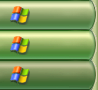
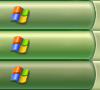
refactor themes taskbar

diff --git a/src/app/desktop/taskbar/taskbar.component.scss b/src/app/desktop/taskbar/taskbar.component.scss
@@ -31,6 +31,7 @@
   font-style: italic;
   text-shadow: 1px 1px 3px #000e;
   cursor: pointer;
+  user-select: none;
   &:hover {
     background-position: 0 60px;
   }  
@@ -42,7 +43,8 @@
 
 .tray {
   padding-inline: 16px;
-  border-left: 1px #12305290 solid;
+  border-left-width: 1px;
+  border-left-style: solid;
 }
 
 .clock {
@@ -51,4 +53,53 @@
   display: flex;
   align-items: center;
   font-size: 11px;
+}
+
+
+::ng-deep .theme-silver {
+  background-image: url("/assets/taskbar/silver/bg.png");
+
+  .start-button {
+    background-image: url("/assets/taskbar/silver/start.png");
+  }
+
+  .clock {
+    color: #000
+  }
+  .tray {
+    background-image: url("/assets/taskbar/silver/tray.png");
+    border-left-color: #1c1c1f90;
+  }
+}
+
+::ng-deep .theme-blue {
+  background-image: url("/assets/taskbar/blue/bg.png");
+
+  .start-button {
+    background-image: url("/assets/taskbar/blue/start.png");
+  }
+
+  .clock {
+    color: #fff;
+  }
+  .tray {
+    background-image: url("/assets/taskbar/blue/tray.png");
+    border-left-color: #12305290;
+  }
+}
+
+::ng-deep .theme-olive {
+  background-image: url("/assets/taskbar/olive/bg.png");
+
+  .start-button {
+    background-image: url("/assets/taskbar/olive/start.png");
+  }
+
+  .clock {
+    color: #41400a;
+  }
+  .tray {
+    background-image: url("/assets/taskbar/olive/tray.png");
+    border-left-color: #968b4b;
+  }
 }

diff --git a/src/app/desktop/taskbar/taskbar.component.ts b/src/app/desktop/taskbar/taskbar.component.ts
@@ -9,19 +9,19 @@ import { themes } from '../../utils/config';
   standalone: true,
   imports: [CommonModule],
   templateUrl: './taskbar.component.html',
-  styleUrl: './taskbar.component.scss'
+  styleUrl: './taskbar.component.scss',
 })
 export class TaskbarComponent implements OnInit, OnDestroy {
 
-  themePath?: string
+  private _theme?: string
   clock = new Date()
   clockSubs$?: Subscription
   startIsOpen: boolean = false
 
   constructor(private userSettings: UserSettingsService) {}
 
-  @HostBinding('style.backgroundImage') get wallpaper() {
-    return `url("/assets/taskbar/${this.themePath}/bg.png")`
+  @HostBinding('class') get theme() {
+    return 'theme-' + this._theme
   }
 
   ngOnInit(): void {
@@ -35,7 +35,7 @@ export class TaskbarComponent implements OnInit, OnDestroy {
 
   private setTheme(): void {
     const themeIndex = this.userSettings.getSetting('theme')
-    this.themePath = themes[themeIndex].path
+    this._theme = themes[themeIndex].key
   }
 
   private setClock(): void {
@@ -45,14 +45,5 @@ export class TaskbarComponent implements OnInit, OnDestroy {
         this.clock = newDate
       }
     })
-  }  
-
-
-  get startStyle(): any {
-    return {backgroundImage: `url("/assets/taskbar/${this.themePath}/start.png")`}
-  }
-
-  get trayStyle(): any {
-    return {backgroundImage: `url("/assets/taskbar/${this.themePath}/tray.png")`}
   }
 }

diff --git a/src/app/utils/config.ts b/src/app/utils/config.ts
@@ -56,20 +56,20 @@ export interface Wallpaper {
 
 export const themes: Theme[] = [
   {
-    name: 'Default (blue)',
-    path: 'blue'
+    key: 'blue',
+    name: 'Default (blue)'
   },
   {
-    name: 'Silver',
-    path: 'silver'
+    key: 'silver',
+    name: 'Silver'
   },
   {
-    name: 'Olive Green',
-    path: 'olive'
+    key: 'olive',
+    name: 'Olive Green'
   }
 ]
 
 export interface Theme {
-  name: string,
-  path: string
+  key: string,
+  name: string
 }

diff --git a/src/app/desktop/taskbar/taskbar.component.html b/src/app/desktop/taskbar/taskbar.component.html
@@ -1,13 +1,12 @@
 <div class="start-button" 
   [ngClass]="{opened: startIsOpen}" 
-  [ngStyle]="startStyle" 
   (click)="startIsOpen = !startIsOpen">
   Inicio
 </div>
 <div class="running-apps-wrapper">
 
 </div>
-<div class="tray" [ngStyle]="trayStyle" >
+<div class="tray">
   <ul class="tray-icons">
 
   </ul>
